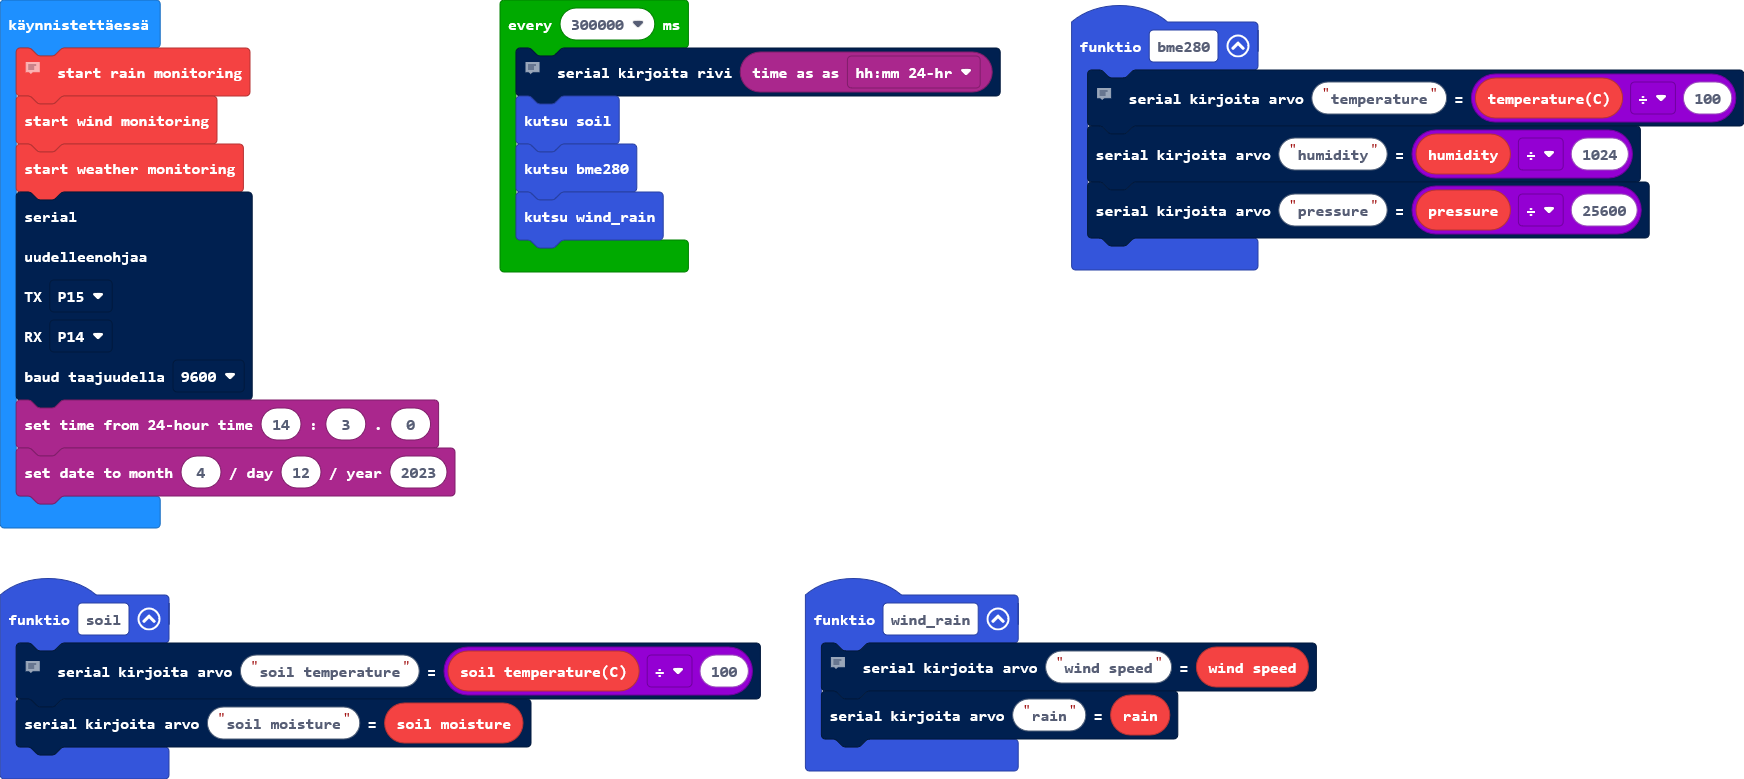
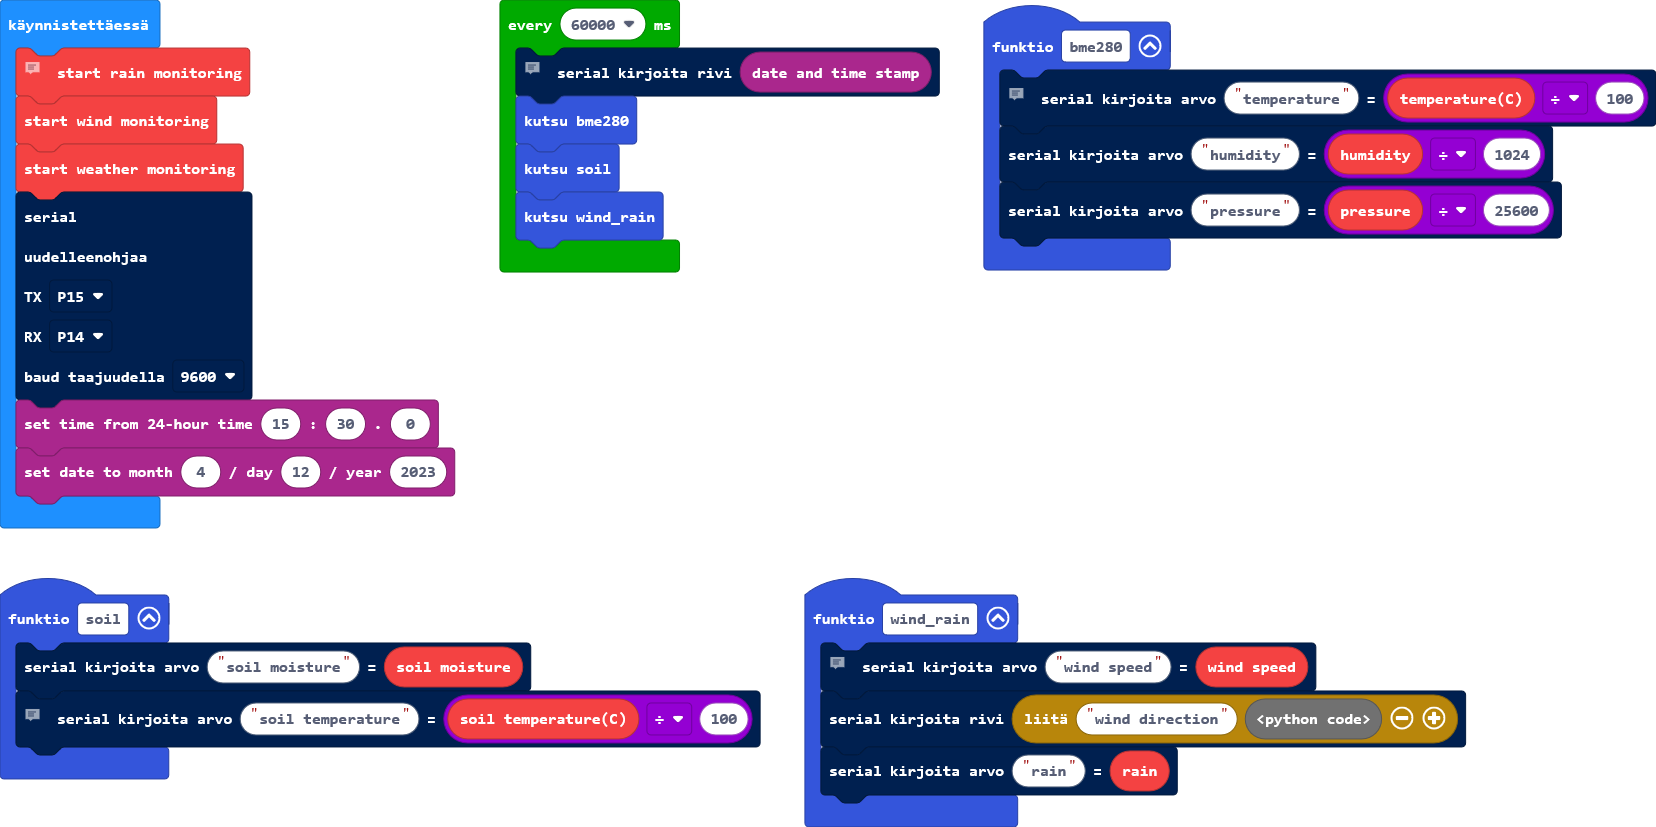
Päivitys pxt.json, main.blocks, main.ts, main.py

Changed region(s): [[0.0, 0.0, 0.8931, 1.0], [0.2772, 0.0, 1.0, 0.3697]]

diff --git a/main.ts b/main.ts
@@ -1,34 +1,35 @@
-function soil () {
-    // multa
-    serial.writeValue("soil temperature", weatherbit.soilTemperature() / 100)
-    serial.writeValue("soil moisture", weatherbit.soilMoisture())
+function soil() {
+    serial.writeValue("Soil moisture", weatherbit.soilMoisture())
+    //  multa
+    serial.writeValue("Soil temp", weatherbit.soilTemperature() / 100)
 }
-function wind_rain () {
-    // tuuli ja sade
-    serial.writeValue("wind speed", weatherbit.windSpeed())
-    serial.writeValue("rain", weatherbit.rain())
+
+function wind_rain() {
+    //  tuuli ja sade
+    serial.writeValue("Wind speed", weatherbit.windSpeed())
+    serial.writeLine("Wind direction:" + weatherbit.directionString(0))
+    serial.writeValue("Rain amount", weatherbit.rain())
 }
-function bme280 () {
-    // lämpö, kosteus ja ilmanpaine
-    serial.writeValue("temperature", weatherbit.temperature() / 100)
-    serial.writeValue("humidity", weatherbit.humidity() / 1024)
-    serial.writeValue("pressure", weatherbit.pressure() / 25600)
+
+function bme280() {
+    //  lämpö, kosteus ja ilmanpaine
+    serial.writeValue("Temperature", weatherbit.temperature() / 100)
+    serial.writeValue("Humidity", weatherbit.humidity() / 1024)
+    serial.writeValue("Pressure", weatherbit.pressure() / 25600)
 }
-// aloitus
+
+//  aloitus
 weatherbit.startRainMonitoring()
 weatherbit.startWindMonitoring()
 weatherbit.startWeatherMonitoring()
-serial.redirect(
-SerialPin.P15,
-SerialPin.P14,
-BaudRate.BaudRate9600
-)
-timeanddate.set24HourTime(14, 3, 0)
-timeanddate.setDate(4, 12, 2023)
-loops.everyInterval(300000, function () {
-    // tekee joka 5:s minuutti
-    serial.writeLine(timeanddate.time(timeanddate.TimeFormat.HHMM24hr))
-    soil()
+serial.redirect(SerialPin.P15, SerialPin.P14, BaudRate.BaudRate9600)
+timeanddate.set24HourTime(15, 30, 0)
+timeanddate.setDate(4, 14, 2023)
+loops.everyInterval(60000, function on_every_interval() {
+    //  tekee joka 5:s minuutti
+    serial.writeLine("")
+    serial.writeLine("[" + timeanddate.dateTime() + "]")
     bme280()
+    soil()
     wind_rain()
 })

diff --git a/main.py b/main.py
@@ -1,28 +1,30 @@
 def soil():
+    serial.write_value("Soil moisture", weatherbit.soil_moisture())
     # multa
-    serial.write_value("soil temperature", weatherbit.soil_temperature() / 100)
-    serial.write_value("soil moisture", weatherbit.soil_moisture())
+    serial.write_value("Soil temp", weatherbit.soil_temperature() / 100)
 def wind_rain():
     # tuuli ja sade
-    serial.write_value("wind speed", weatherbit.wind_speed())
-    serial.write_value("rain", weatherbit.rain())
+    serial.write_value("Wind speed", weatherbit.wind_speed())
+    serial.write_line("Wind direction:" + weatherbit.direction_string(0))
+    serial.write_value("Rain amount", weatherbit.rain())
 def bme280():
     # lämpö, kosteus ja ilmanpaine
-    serial.write_value("temperature", weatherbit.temperature() / 100)
-    serial.write_value("humidity", weatherbit.humidity() / 1024)
-    serial.write_value("pressure", weatherbit.pressure() / 25600)
+    serial.write_value("Temperature", weatherbit.temperature() / 100)
+    serial.write_value("Humidity", weatherbit.humidity() / 1024)
+    serial.write_value("Pressure", weatherbit.pressure() / 25600)
 # aloitus
 weatherbit.start_rain_monitoring()
 weatherbit.start_wind_monitoring()
 weatherbit.start_weather_monitoring()
 serial.redirect(SerialPin.P15, SerialPin.P14, BaudRate.BAUD_RATE9600)
-timeanddate.set24_hour_time(14, 3, 0)
-timeanddate.set_date(4, 12, 2023)
+timeanddate.set24_hour_time(15, 30, 0)
+timeanddate.set_date(4, 14, 2023)
 
 def on_every_interval():
     # tekee joka 5:s minuutti
-    serial.write_line(timeanddate.time(timeanddate.TimeFormat.HHMMSS2_4HR))
-    soil()
+    serial.write_line("")
+    serial.write_line("["+timeanddate.date_time()+"]")
     bme280()
+    soil()
     wind_rain()
-loops.every_interval(300000, on_every_interval)
+loops.every_interval(60000, on_every_interval)
